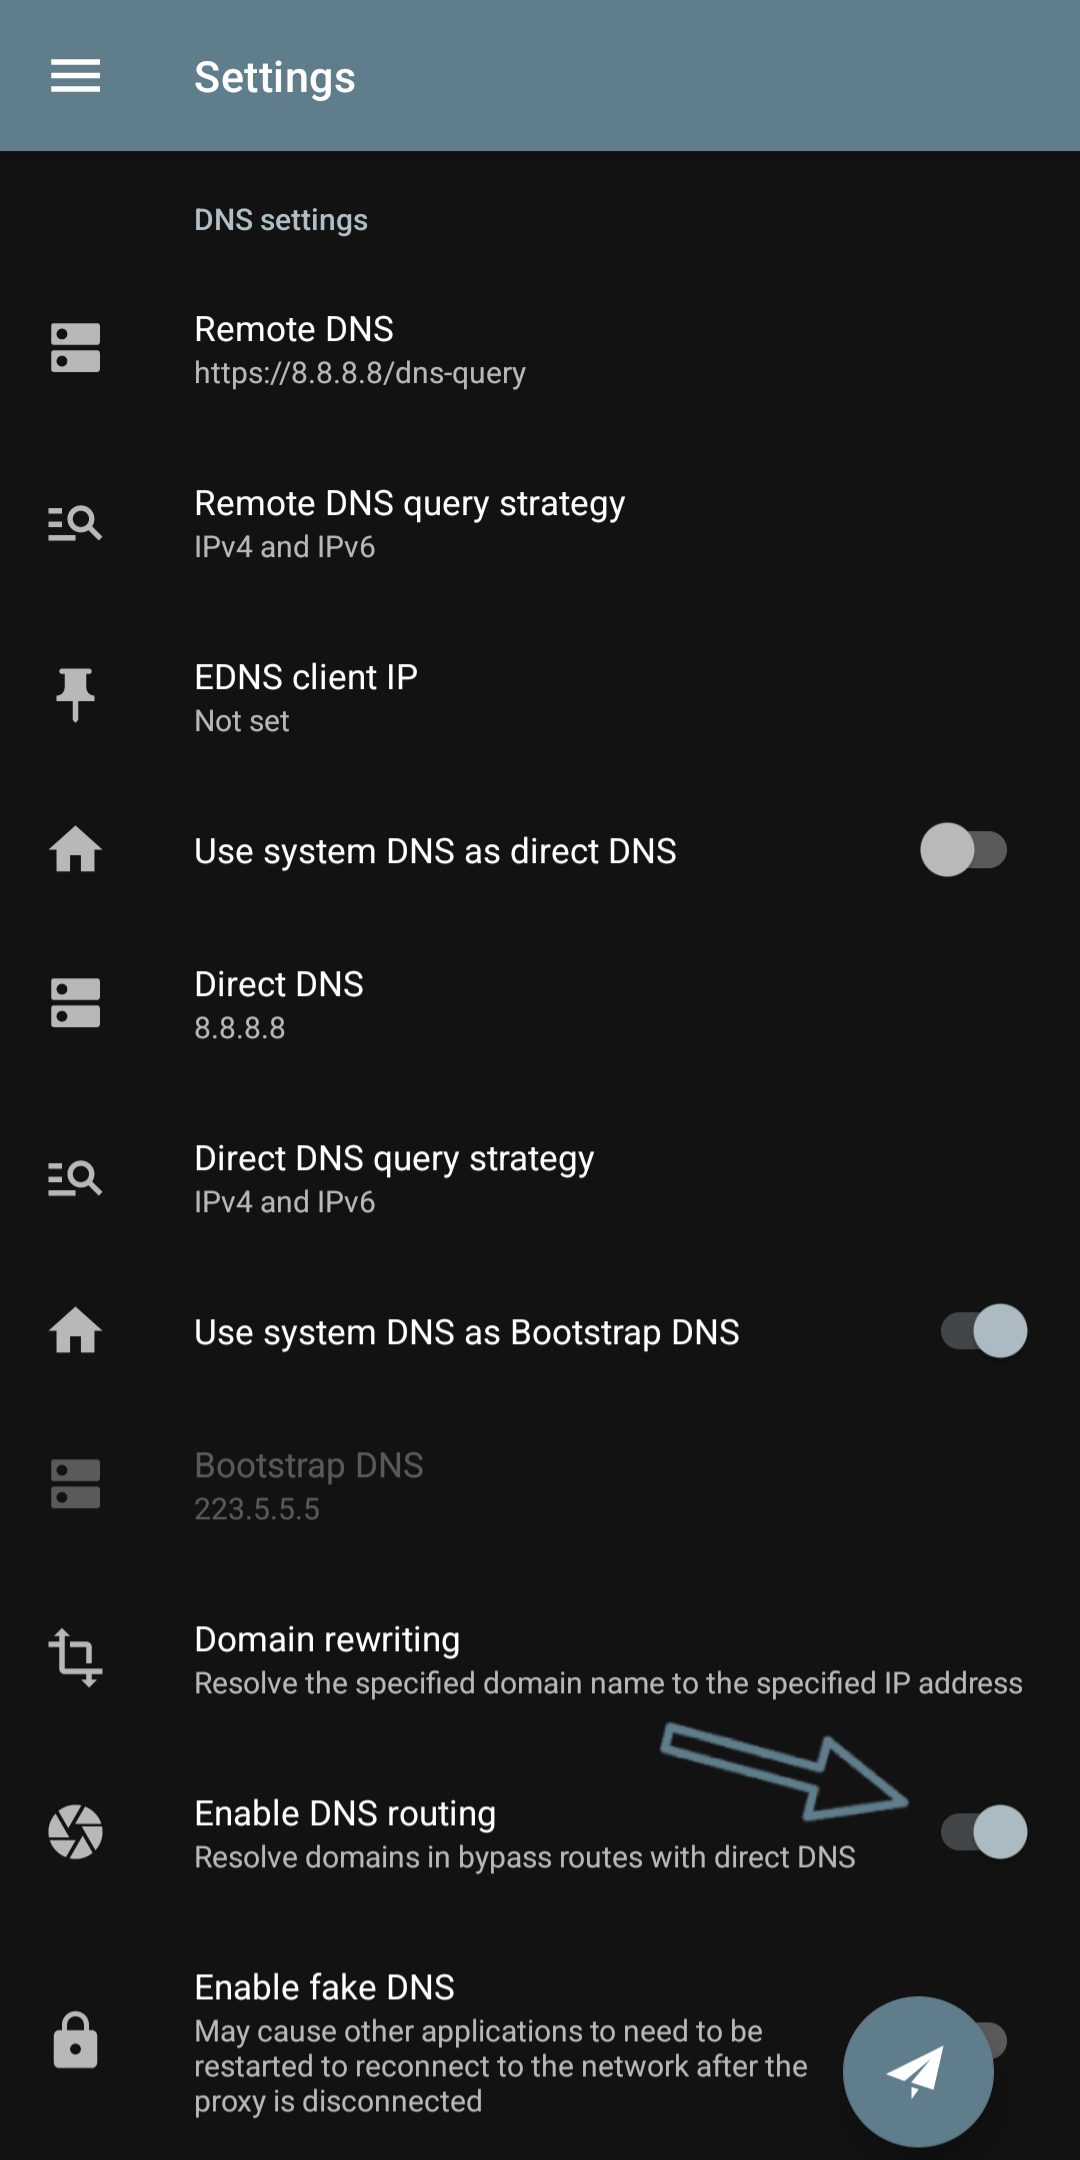
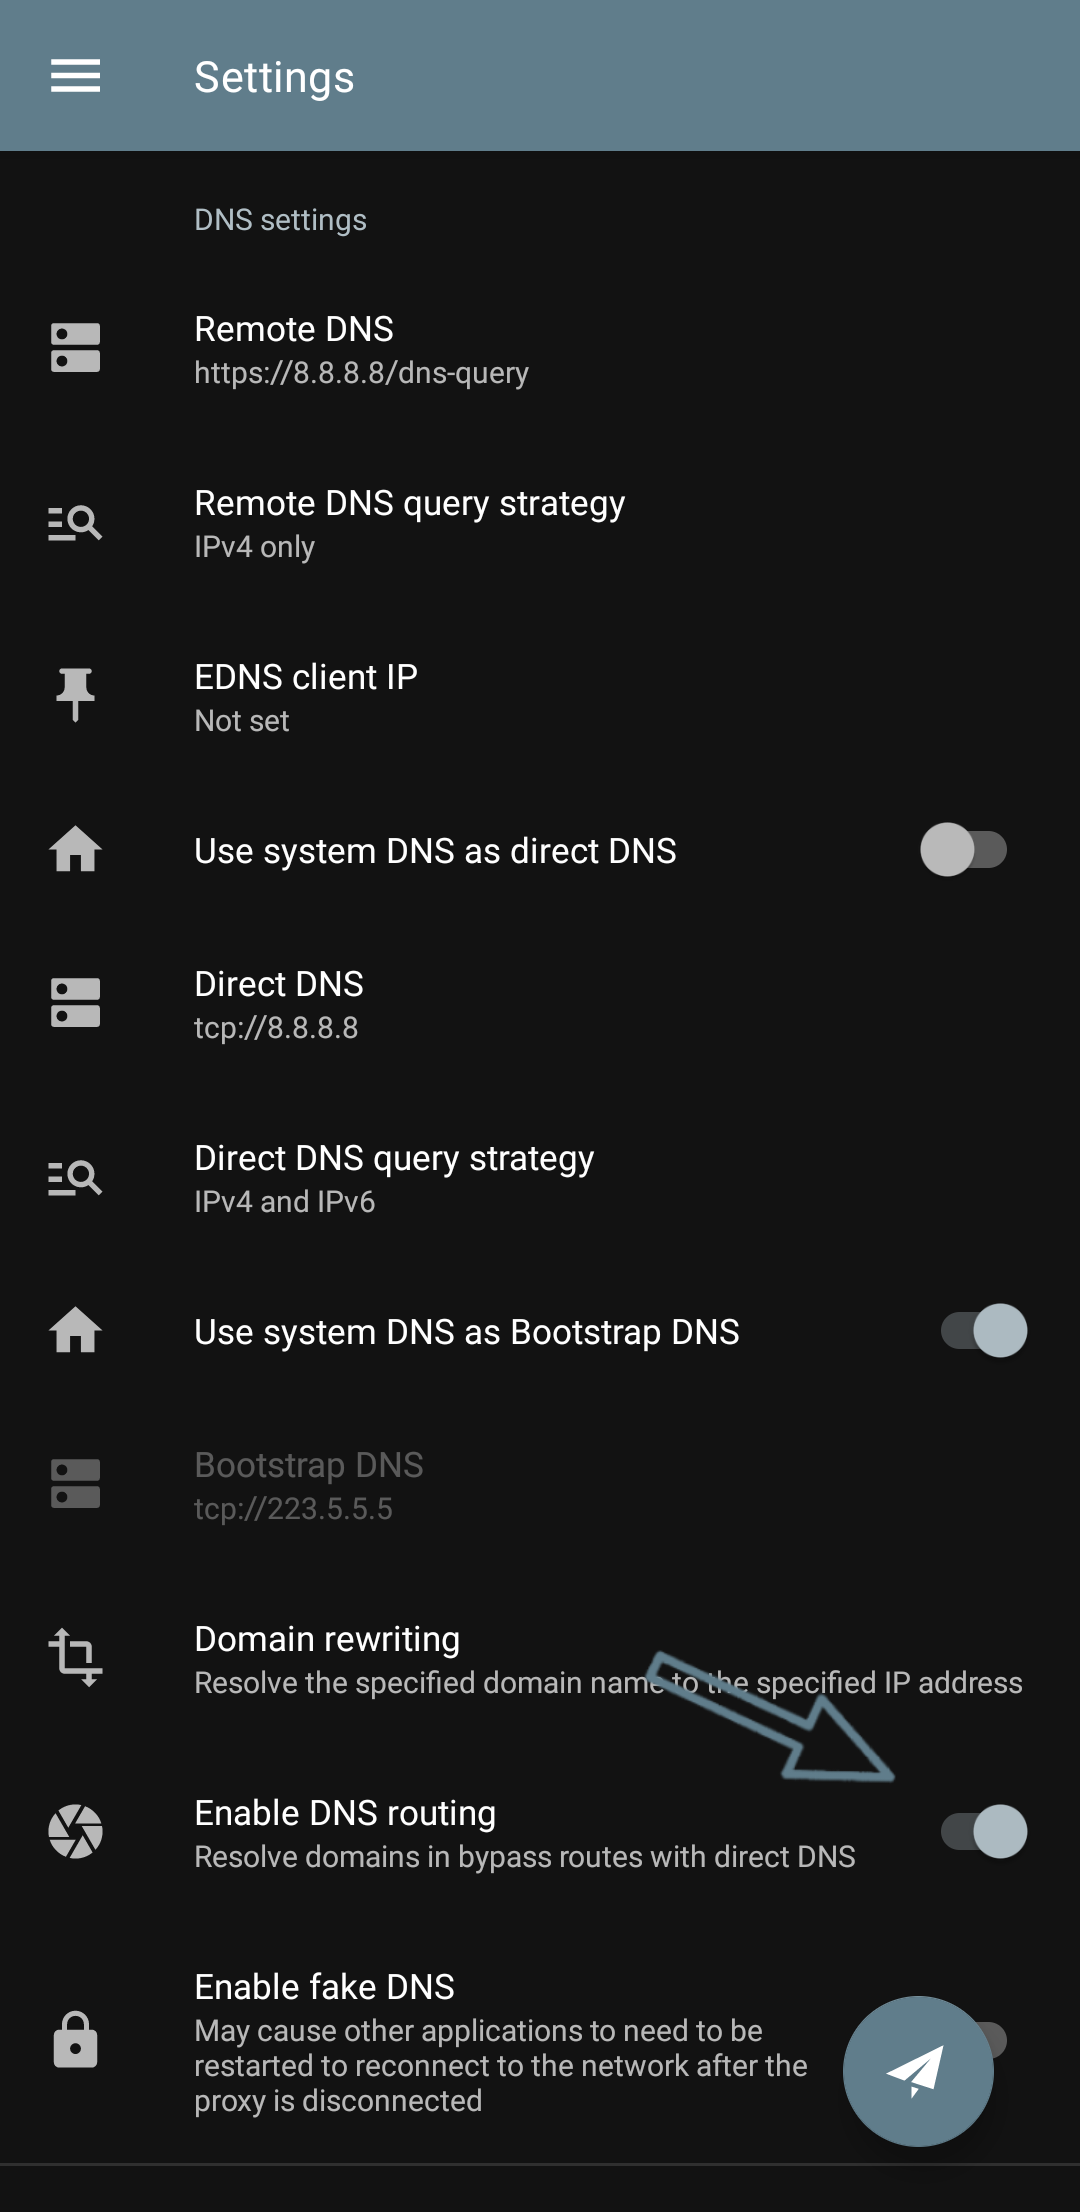
Build: add npm config files

diff --git a/docs/en/topics/nekobox.md b/docs/en/topics/nekobox.md
@@ -458,7 +458,7 @@ Before our proxy config connects, it has another task in addition to that. If th
 
 - **Why is it important?** If your ISP blocks or manipulates DNS, domestic sites won't load.
 
-- **Recommendation:** In Exclave's settings, turn off the "Use system DNS as Direct DNS" option and in the box below it that says "Direct DNS", put `8.8.8.8` to always use Google. In Iran, its ipv4 is not filtered and it is fast, and what more could a blind person want from God?
+- **Recommendation:** In Exclave's settings, turn off the "Use system DNS as Direct DNS" option and in the box below it that says "Direct DNS", put `tcp://8.8.8.8` to always use Google. In Iran, its ipv4 is not filtered and it is fast, and what more could a blind person want from God?
 
 It's the same for Nekobox, but it doesn't have that option to turn it on or off. In Nekobox, if you write `local` in the Direct DNS box, just like that in lowercase, it will use the internal Android DNS, and you can leave it as local or, as explained in the previous paragraph, put `8.8.8.8` here as well.
 
@@ -466,6 +466,10 @@ Also, for Direct or Local DNS, you can use a public, neutral, hassle-free, and u
 
 ```
 https://223.5.5.5/dns-query
+```
+
+```
+tcp://223.5.5.5
 ```
 
 <br/>
@@ -876,14 +880,14 @@ This way, the clients have a principled, ideal, standard setting according to th
 - [Subscription Links Repository][3]
 
 [1]: https://github.com/MatsuriDayo/NekoBoxForAndroid/releases
-[2]: https://t.me/new_folder_revil/3498
+[2]: https://t.me/new_folder_revil/3552
 [3]: https://github.com/NiREvil/vless/
 [4]: https://t.me/new_folder_revil/3497
 [5]: https://github.com/dyhkwong/Exclave/releases
 [6]: https://t.me/F_NiREvil/5123
 [7]: https://t.me/F_NiREvil/5518
 [8]: https://t.me/new_folder_revil/3495
-[9]: https://t.me/new_folder_revil/3500
+[9]: https://t.me/new_folder_revil/3554
 [10]: https://www.dnsleaktest.com/
 [11]: https://t.me/F_NiREvil/620
 [12]: https://github.com/NiREvil/vless/tree/main/DNS%20over%20HTTPS/Azadi-DNS
